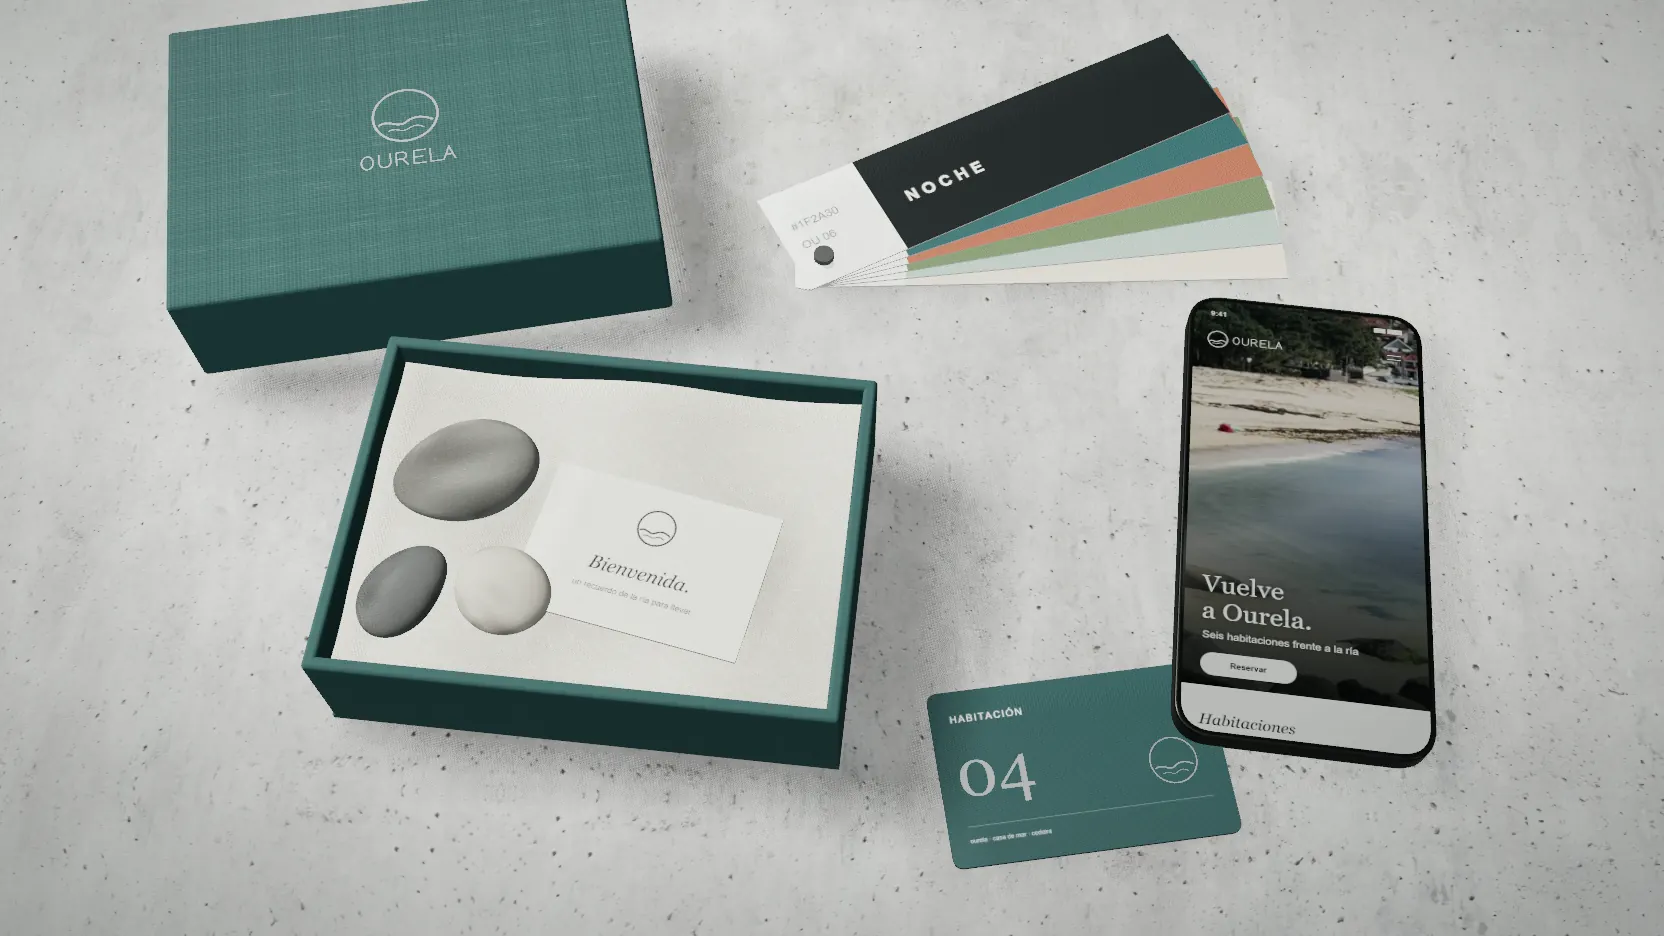
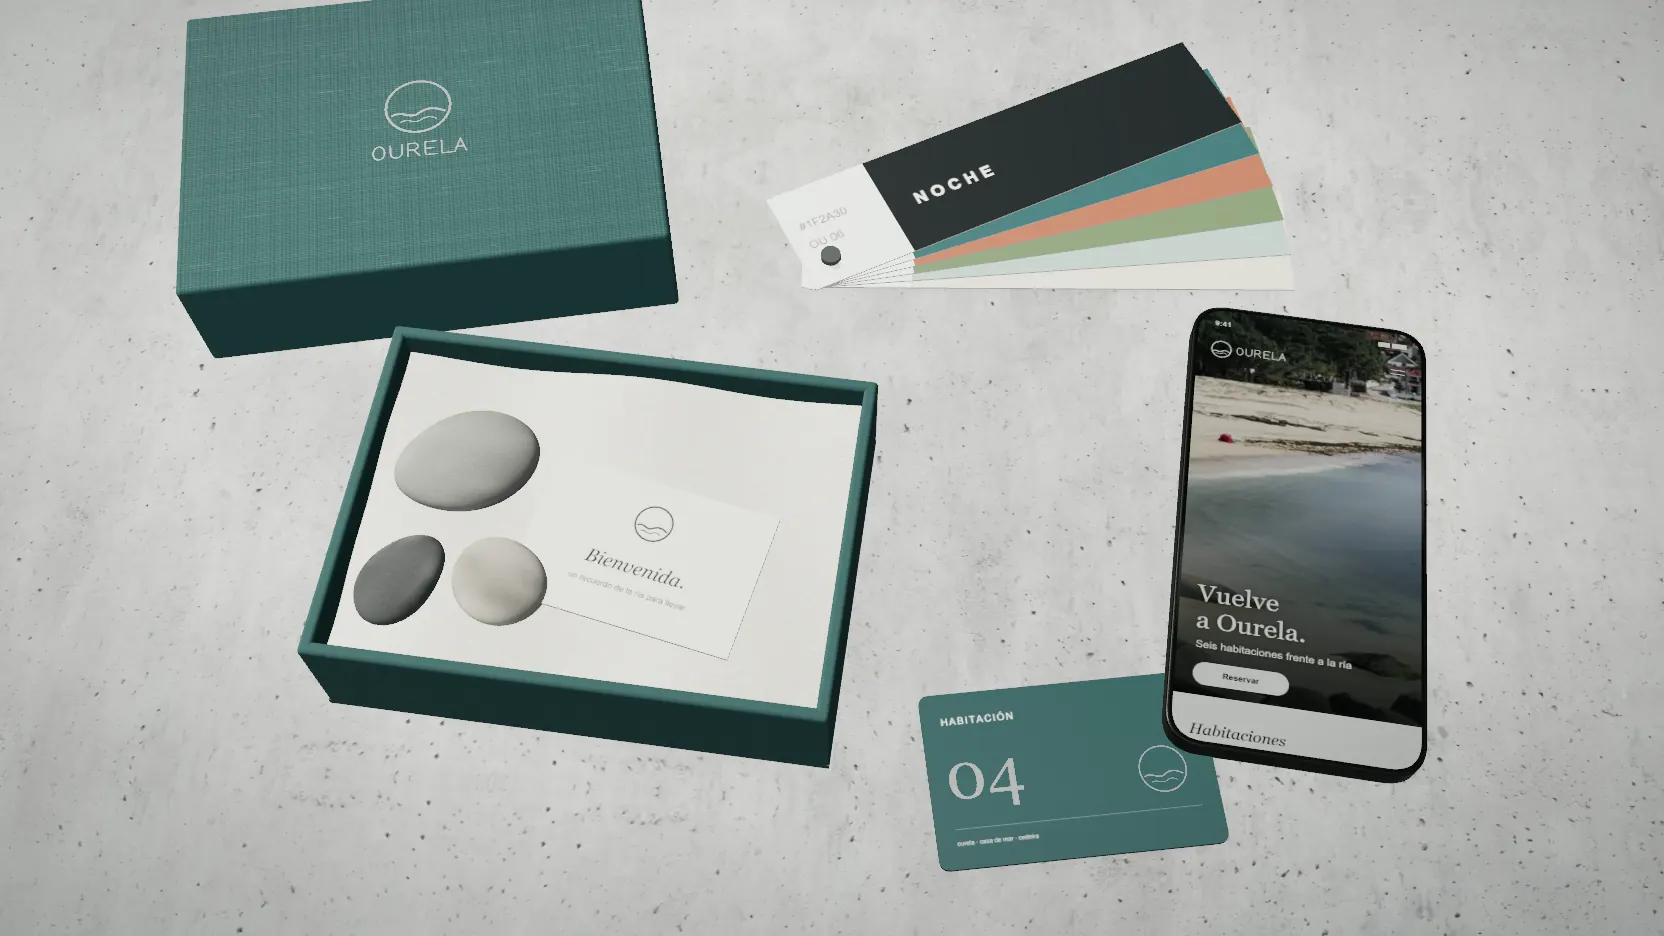
Identity scene: no cast window shadows, only the contact shadows; loading stills redone to match

diff --git a/src/components/Identity/StationeryScene.tsx b/src/components/Identity/StationeryScene.tsx
@@ -61,8 +61,9 @@ async function build(host: HTMLDivElement, onReady: () => void, paused: { curren
   renderer.toneMapping = THREE.ACESFilmicToneMapping;
   // (a touch under: the white tissue and card in the window's light used to burn out)
   renderer.toneMappingExposure = 0.46;
-  // (on phones too: the round dark spots once blamed on them were the leaves in the window light)
-  renderer.shadowMap.enabled = true;
+  // no cast shadows from the window: they drew differently from one GPU to another (and so differed from the
+  // loading still); the contact shadows under each piece set it down, the same everywhere
+  renderer.shadowMap.enabled = false;
   // soft filtered shadows (the variance kind left a dotted halo round the cards)
   renderer.shadowMap.type = THREE.PCFSoftShadowMap;
   renderer.domElement.style.display = "block";
